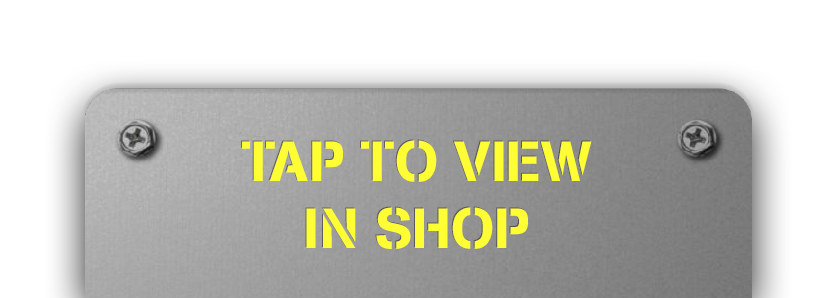
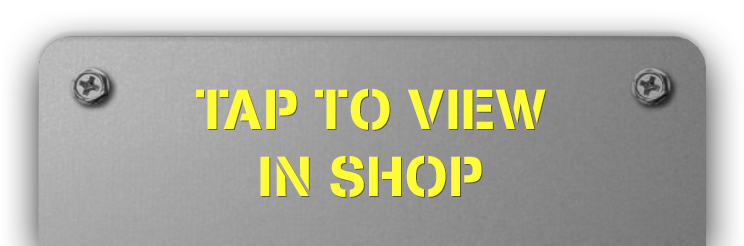
shop link work

diff --git a/public/js/ts/example.ts b/public/js/ts/example.ts
@@ -190,6 +190,8 @@ const shoeDefs: ShoeDef[] = [
   }
 ]
 
+let focusedShoe: ShoeDef;
+
 const fixedTimeStep = 1.0 / 60.0; // seconds
 const maxSubSteps = 3;
 
@@ -993,28 +995,49 @@ function updateFocusWarningScreen() {
 }
 
 function updatePurchaseLink(shoe: ShoeDef, show: boolean) {
-  const linkElem = document.getElementById('purchase-link') as HTMLLinkElement;
-  linkElem.href = shoe?.purchaseURL;
+  focusedShoe = shoe;
+  // const linkElem = document.getElementById('purchase-link') as HTMLLinkElement;
+  // linkElem.href = shoe?.purchaseURL;
   const linkImg = document.getElementById('purchase-link-img') as HTMLImageElement;
   linkImg.style.opacity = ((show) ? 1 : 0).toString();
 
-  if(!IS_MOBILE) {
-    if(show) {
-      window.addEventListener('keydown', openPurchaseLink);
+  if (IS_MOBILE) {
+    if (show) {
+      linkImg.addEventListener('click', openPurchaseLinkMobile, {passive: false});
     } else {
-      window.removeEventListener('keydown', openPurchaseLink);
+      linkImg.removeEventListener('click', openPurchaseLinkMobile);
+    }
+  }
+  else {
+    if (show) {
+      window.addEventListener('keydown', openPurchaseLinkDesktop);
+    } else {
+      window.removeEventListener('keydown', openPurchaseLinkDesktop);
     }
   }
 }
 
-function openPurchaseLink(e) {
-  if (e.key == " " ||
-      e.code == "Space" ||      
-      e.keyCode == 32      
-  ) {
-    const linkElem = document.getElementById('purchase-link') as HTMLLinkElement;
-    window.open(linkElem.href);
+function openPurchaseLinkDesktop(e) {
+  if(!focusedShoe) {
+    return;
   }
+
+  if (e.key == " " ||
+    e.code == "Space" ||
+    e.keyCode == 32
+  ) {
+    window.open(focusedShoe.purchaseURL);
+  }
+}
+function openPurchaseLinkMobile(event) {
+  if(!focusedShoe) {
+    return;
+  }
+  window.open(focusedShoe.purchaseURL);
+
+  event.stopPropagation();
+  event.preventDefault(); // prevent scrolling
+  event.stopImmediatePropagation();
 }
 
 function toggleFullScreen() {

diff --git a/public/index.html b/public/index.html
@@ -72,9 +72,9 @@
 
 	<section id="purchase-link-area">
 		<div id="purchase-link-container">
-			<a id="purchase-link" href="https://wearebraindead.com/products/rush-hour-fanny-pack-tan?variant=42748860891267" target="_blank">
+			<div id="purchase-link">
 				<img id="purchase-link-img" src="images/shop_link_button.png" />
-			</a>
+			</div>
 		</div>
 	</section>
 
@@ -154,6 +154,9 @@
 		window.GLTF_URL = "https://storage.googleapis.com/oakley-drop/scene.gltf";
 
 		console.log('is mobile: ', window.IS_MOBILE);
+
+		const purchaseImgUrl = (window.IS_MOBILE) ? "images/shop_link_button.png" : "images/shop_link_button_space.png";
+		document.getElementById("purchase-link-img").src = purchaseImgUrl;
 
 		if (window.STORAGE) {
 			console.log('found storage');

diff --git a/public/css/main.css b/public/css/main.css
@@ -57,7 +57,7 @@ input {
   /* justify-content: center; */
   /* align-items: center; */
 }
-a {
+#purchase-link {
   color:white;
   display: flex;
   justify-content: center;
